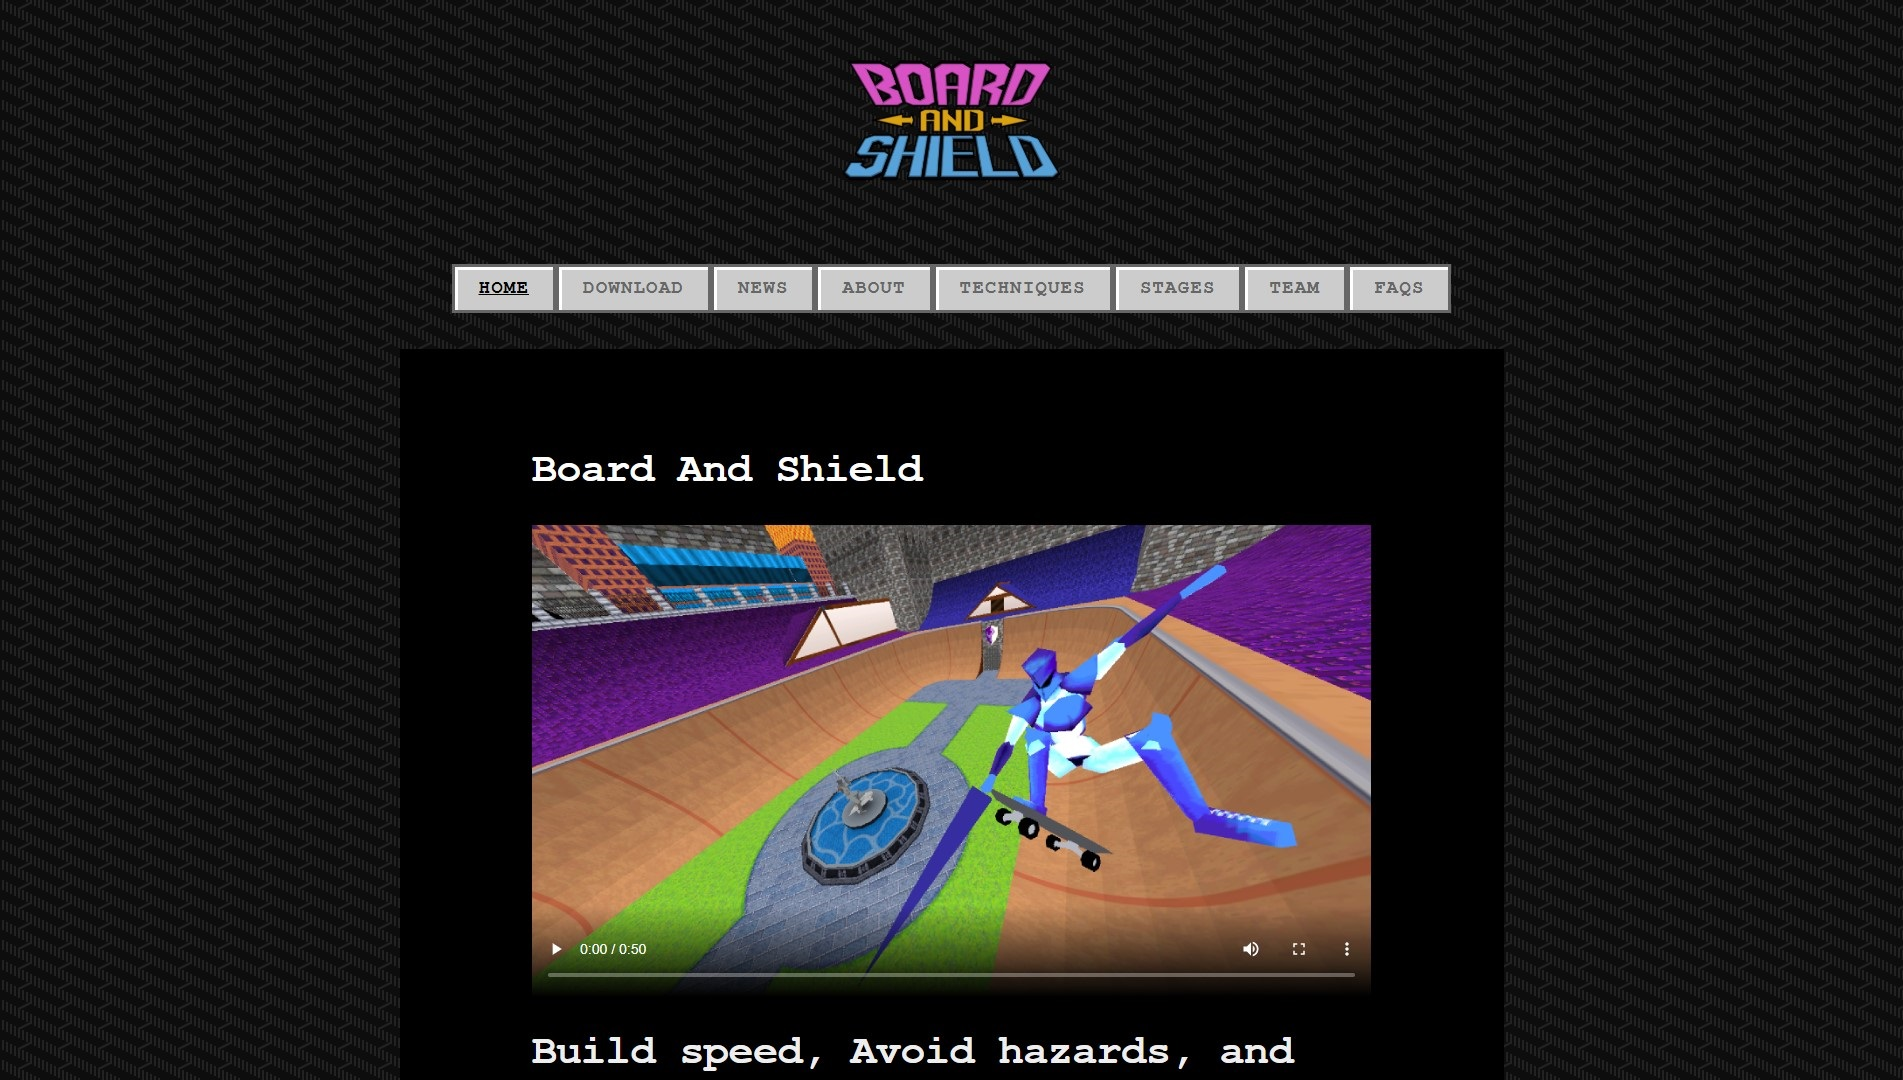
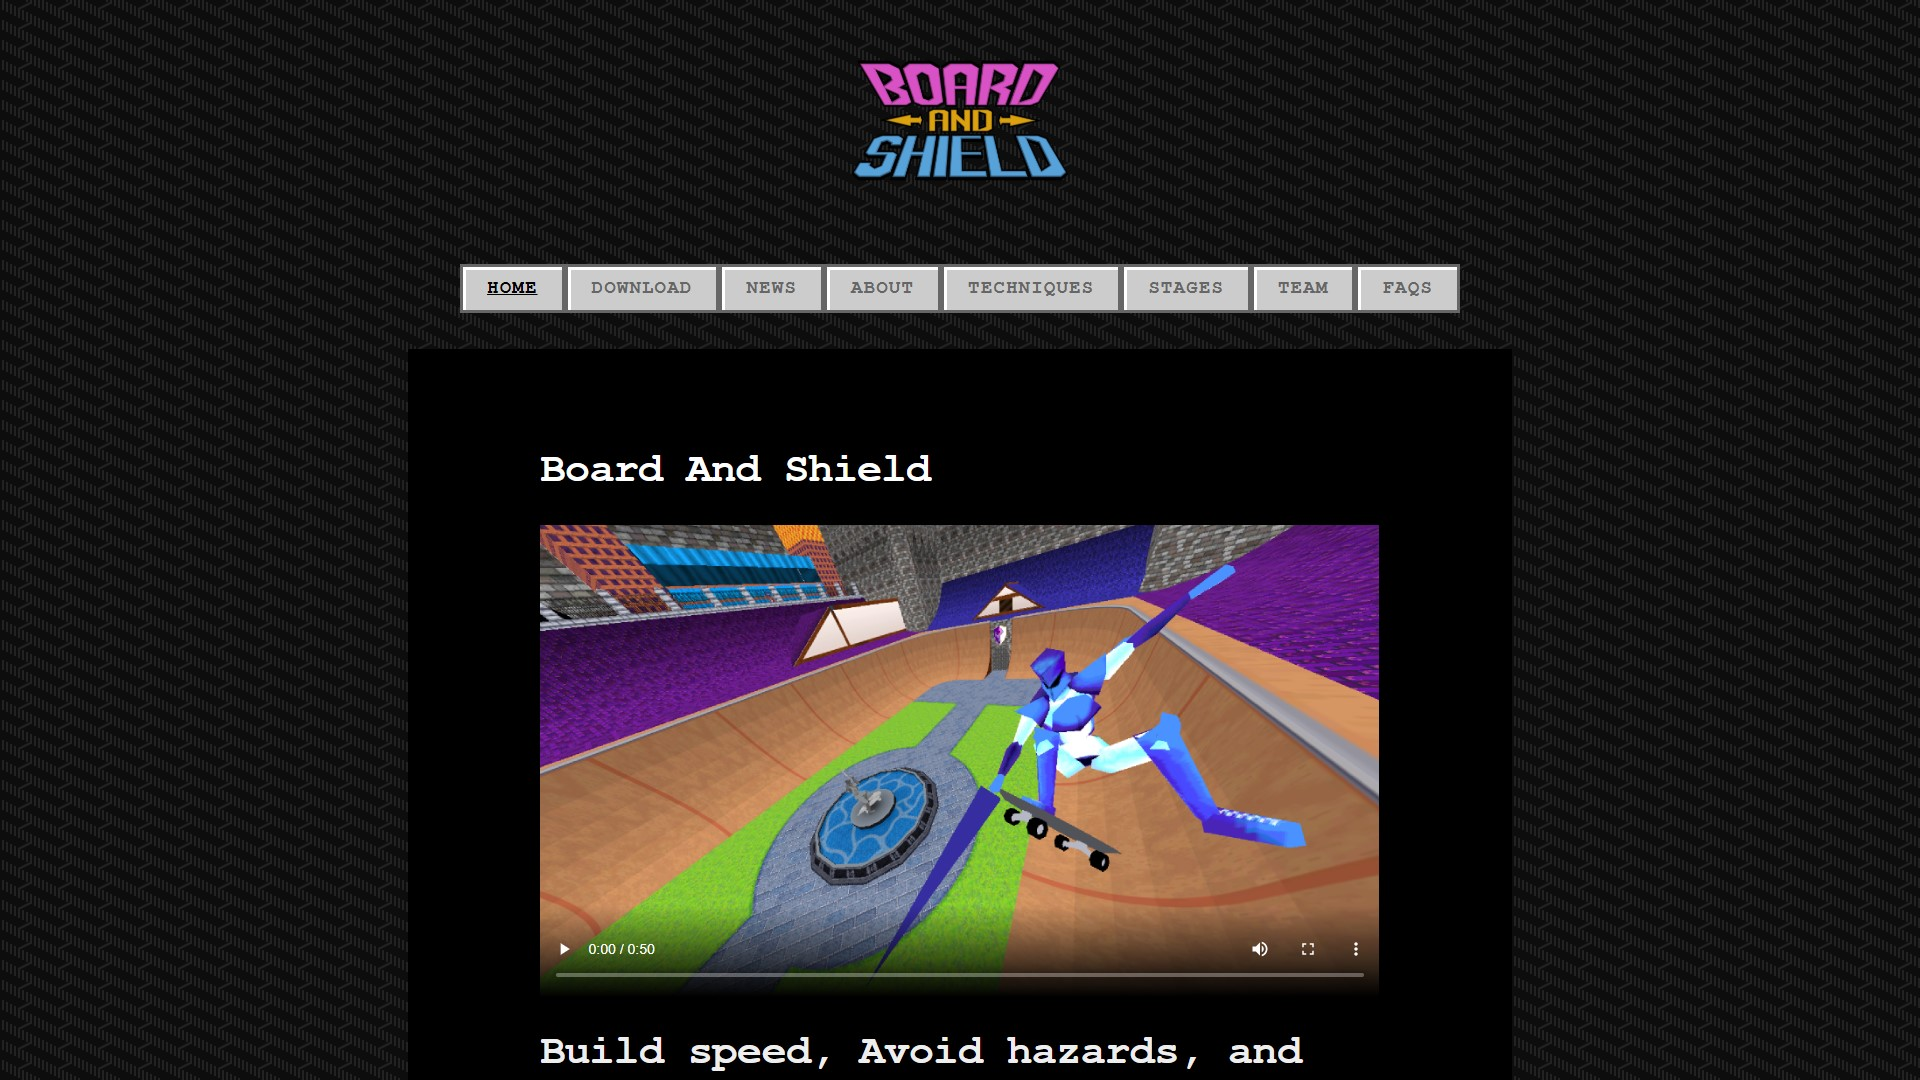
Update UI design and project thumbnails

diff --git a/index.html b/index.html
@@ -43,10 +43,10 @@
             <label id="hamburger-label" for="hamburger" tabindex="0"><img src="img/icon/hamburger.svg" alt="Hamburger menu"></label>
             <input type="checkbox" id="hamburger">
             <ul>
-                <li><a class="nav-btn" href="#hero">Home</a></li>
-                <li><a class="nav-btn" href="#projects">Projects</a></li>
-                <li><a class="nav-btn" href="#about">About</a></li>
-                <li><a class="nav-btn" href="#contact">Contact</a></li>
+                <li><a href="#hero">Home</a></li>
+                <li><a href="#projects">Projects</a></li>
+                <li><a href="#about">About</a></li>
+                <li><a href="#contact">Contact</a></li>
             </ul>
         </nav>
         <main>
@@ -57,13 +57,13 @@
                     <div id="hero-content">
                         <h1>I create responsive, accessible content</h1>
                         <h2>Vincent Nguyen - Web and Game Developer</h2>
-                        <h3><a id="cta-projects" href="#projects">Browse my projects</a><a id="cta-contact" href="#contact">Contact me</a></h3>
+                        <a id="cta-projects" href="#projects">Browse my projects</a><a id="cta-contact" href="#contact">Contact me</a>
                     </div>
                 </div>
             </section>
             <section id="projects">
                 <div class="container">
-                    <h1 class="section-header">Projects</h1>
+                    <h1 class="section-header">PROJECTS</h1>
                     <div class="card-group">
                         <div class="card">
                             <div class="card-thumb">
@@ -78,7 +78,7 @@
                                     <a class="ext-link" href="https://github.com/VnceGd/vtuber-hub" target="_blank" rel="noopener"><img class="img-dark" src="img/logo/git-white.png" title="View on GitHub"><img class="img-light" src="img/logo/git-black.png" title="View on GitHub"></a></h3>
                                 </h3>
                                 <span class="date">Jul 2020 - Present</span>
-                                <p>Quick access to Virtual YouTuber content. <br><br> Solo project for exploration of use cases for YouTube Data API v3.</p>
+                                <p>Quick access to Virtual YouTuber content.<br><br>Solo project for exploration of use cases for YouTube Data API v3.</p>
                             </div>
                         </div>
                         <div class="card">
@@ -93,7 +93,7 @@
                                     <a class="ext-link" href="https://boardandshield.com" target="_blank" rel="noopener"><img src="img/icon/ext-link.svg" title="Visit website"></a>
                                     <a class="ext-link" href="http://cci.drexel.edu/SeniorDesign/2019_2020/Board-Shield/Board-Shield-index.html" target="_blank" rel="noopener"><img class="img-dark" src="img/logo/drexel-yellow.png" title="Visit Drexel Senior Design page"><img class="img-light" src="img/logo/drexel-blue.png" title="Visit Drexel Senior Design page"></a></h3>
                                 <span class="date">Sep 2019 - May 2020</span>
-                                <p>The shot in the arm extreme sports games need. <br><br> Senior project collaboration between teams from Drexel Westphal and CCI.</p>
+                                <p>The shot in the arm extreme sports games need.<br><br>Senior project collaboration between teams from Drexel Westphal and CCI.</p>
                             </div>
                         </div>
                         <div class="card">
@@ -108,7 +108,7 @@
                                     <a class="ext-link" href="https://area52p.com" target="_blank" rel="noopener"><img src="img/icon/ext-link.svg" title="Visit website"></a>
                                     <a class="ext-link" href="https://github.com/Area-52-Percent/Cow-Duction" target="_blank" rel="noopener"><img class="img-dark" src="img/logo/git-white.png" title="View on GitHub"><img class="img-light" src="img/logo/git-black.png" title="View on GitHub"></a></h3>
                                 <span class="date">Sep 2019 - Apr 2020</span>
-                                <p>Feel the moo-tions of the game! <br><br> Term project for Game Development: Workshop I/II.</p>
+                                <p>Feel the moo-tions of the game!<br><br>Term project for Game Development: Workshop I/II.</p>
                             </div>
                         </div>
                         <div class="card">
@@ -123,16 +123,16 @@
                                     <a class="ext-link" href="https://vncegd.github.io/random" target="_blank" rel="noopener"><img src="img/icon/ext-link.svg" title="Visit website"></a>
                                     <a class="ext-link" href="https://github.com/vncegd/random" target="_blank" rel="noopener"><img class="img-light" src="img/logo/git-black.png" title="View on GitHub"><img class="img-dark" src="img/logo/git-white.png" title="View on GitHub"></a></h3>
                                 <span class="date">Aug 2018 - Aug 2019</span>
-                                <p>Test your luck. <br><br> Solo project for creation of responsive in-browser games.</p>
+                                <p>Test your luck.<br><br>Solo project for creation of responsive in-browser games.</p>
                             </div>
                         </div>
                     </div>
-                    <a id="more-projects" href="https://github.com/VnceGd?tab=repositories" target="_blank" rel="noopener">View more on GitHub</a>
+                    <a id="more-projects" href="https://github.com/VnceGd?tab=repositories" target="_blank" rel="noopener">View more projects on GitHub</a>
                 </div>
             </section>
             <section id="about">
                 <div class="container">
-                    <h1 class="section-header">About</h1>
+                    <h1 class="section-header">ABOUT</h1>
                     <div id="about-section">
                         <p>B.S. Computer Science, Concentration in Game Programming and Development, Drexel University Class of 2021</p>
                         <p>Aspiring independent game developer</p>
@@ -144,14 +144,14 @@
             </section>
             <section id="contact">
                 <div class="container">
-                    <h1 class="section-header">Contact</h1>
-                    <div class="contact-buttons">
+                    <h1 class="section-header">CONTACT</h1>
+                    <div id="contact-buttons">
                         <h3>Get in Touch</h3>
                         <p><a class="highlight" href="mailto:16nguyenv@gmail.com"><img src="img/icon/email.svg" title="Email"> Email</a> 16nguyenv@gmail.com</p>
                         <p><a class="highlight" href="tel:+01-484-557-2309"><img src="img/icon/phone.svg" title="Phone"> Phone</a> +1 484 557 2309</p>
                         <p><a class="highlight" href="https://discord.gg/daZUt2d"><img src="img/logo/discord-color.png" title="Discord"> Discord</a> ZevinLevin#4019</p>
-                        <h3>Follow</h3>
-                        <p id="follow-buttons">
+                        <div id="follow-buttons">
+                            <h3>Follow</h3>
                             <a href="https://github.com/vncegd" target="_blank" rel="noopener">
                                 <img class="img-dark" src="img/logo/git-black.png" title="Github">
                                 <img class="img-light" src="img/logo/git-white.png" title="Github"> GitHub</a>
@@ -173,7 +173,7 @@
                                 <img src="img/logo/steam.svg" title="Steam"> Steam</a>
                             <a href="https://osu.ppy.sh/users/4890690" target="_blank" rel="noopener">
                                 <img src="img/logo/osu!.png" title="osu!"> osu!</a>
-                        </p>
+                        </div>
                     </div>
                     <div class="contact-form">
                         <h3>Send a Message</h3>

diff --git a/css/main.css b/css/main.css
@@ -78,8 +78,12 @@ body::-webkit-scrollbar-thumb:active {
     max-width: 70vw;
     font-size: 4rem;
 }
+#hero-content a {
+    margin-top: 2rem;
+    font-weight: bold;
+}
 #cta-projects {
-    margin: 0 2rem 2rem 0;
+    margin-right: 2rem;
 }
 #cta-contact {
     color: var(--fg-color);
@@ -122,17 +126,32 @@ body::-webkit-scrollbar-thumb:active {
 .container {
     width: 100%;
     height: 100%;
-    padding: 3rem;
+    padding: 4rem;
     position: relative;
     overflow: auto;
 }
 .section-header {
-    margin-top: 2rem;
-    font-size: 2rem;
+    margin: 2rem 0;
+    position: relative;
+    font-weight: normal;
+    letter-spacing: .5rem;
+}
+.section-header:before {
+    content: '';
+    position: absolute;
+    top: 0;
+    right: 0;
+    bottom: 0;
+    left: -2rem;
+    background-image: url("../img/bg/vtn-min-tri.svg");
+    background-size: 4rem;
+    background-position: top .5rem left;
+    background-repeat: no-repeat;
+    opacity: .2;
 }
 .card-group {
     display: grid;
-    margin-bottom: 2vw;
+    margin-bottom: 4vw;
     grid-gap: 2vw;
     grid-template-columns: 1fr;
 }
@@ -178,8 +197,8 @@ body::-webkit-scrollbar-thumb:active {
     transform: translateY(0);
     transition: .2s;
 }
-.card-body a, #more-projects {
-    padding: .5rem 2rem;
+h3 {
+    letter-spacing: .2rem;
 }
 .card-body .ext-link {
     padding: .25rem;
@@ -198,16 +217,18 @@ body::-webkit-scrollbar-thumb:active {
     transition: color .2s;
 }
 #more-projects {
+    padding: 1rem 2rem;
     display: block;
     text-align: center;
+    font-weight: bold;
 }
 
-.contact-buttons, .contact-form {
+#contact-buttons, .contact-form {
     width: 100%;
     float: left;
 }
-.contact-buttons {
-    margin-bottom: 4rem;
+#contact-buttons {
+    margin-bottom: 2rem;
 }
 .highlight {
     margin-right: .25rem;

diff --git a/css/screen.css b/css/screen.css
@@ -13,6 +13,9 @@
         font-size: 14px;
     }
 
+    nav {
+        padding: 1rem 4rem;
+    }
     nav label {
         display: none;
     }
@@ -25,9 +28,10 @@
     }
     nav ul li {
         display: inline-block;
+        text-align: center;
     }
     nav ul li a {
-        padding: 1rem;
+        padding: 1rem 1.5rem;
         background: 0;
     }
     nav ul li a:hover, nav ul li a:focus, nav ul li a:active {
@@ -44,14 +48,26 @@
     .card-thumb {
         height: 24vw;
     }
+    #more-projects {
+        display: inline-block;
+    }
 
-    .contact-buttons, .contact-form {
+    #about-section {
+        max-width: 55vw;
+        float: left;
+    }
+    #self-photo {
+        margin-left: 4rem;
+        float: left;
+    }
+
+    #contact-buttons, .contact-form {
         width: 48%;
     }
     .contact-form {
         float: right;
     }
-    .contact-buttons {
+    #contact-buttons {
         margin: 0;
     }
 }
@@ -61,13 +77,8 @@
     }
 
     #about-section {
-        float: left;
+        max-width: max-content;
     }
-    #self-photo {
-        margin-left: 4rem;
-        float: left;
-    }
-
     .card-group {
         grid-template-columns: repeat(4, 1fr);
     }

diff --git a/css/nav.css b/css/nav.css
@@ -1,6 +1,6 @@
 nav {
     position: fixed;
-    padding: 1rem 3rem;
+    padding: 1rem 2rem;
     width: 100%;
     transition: background-color .2s;
     z-index: 99;
